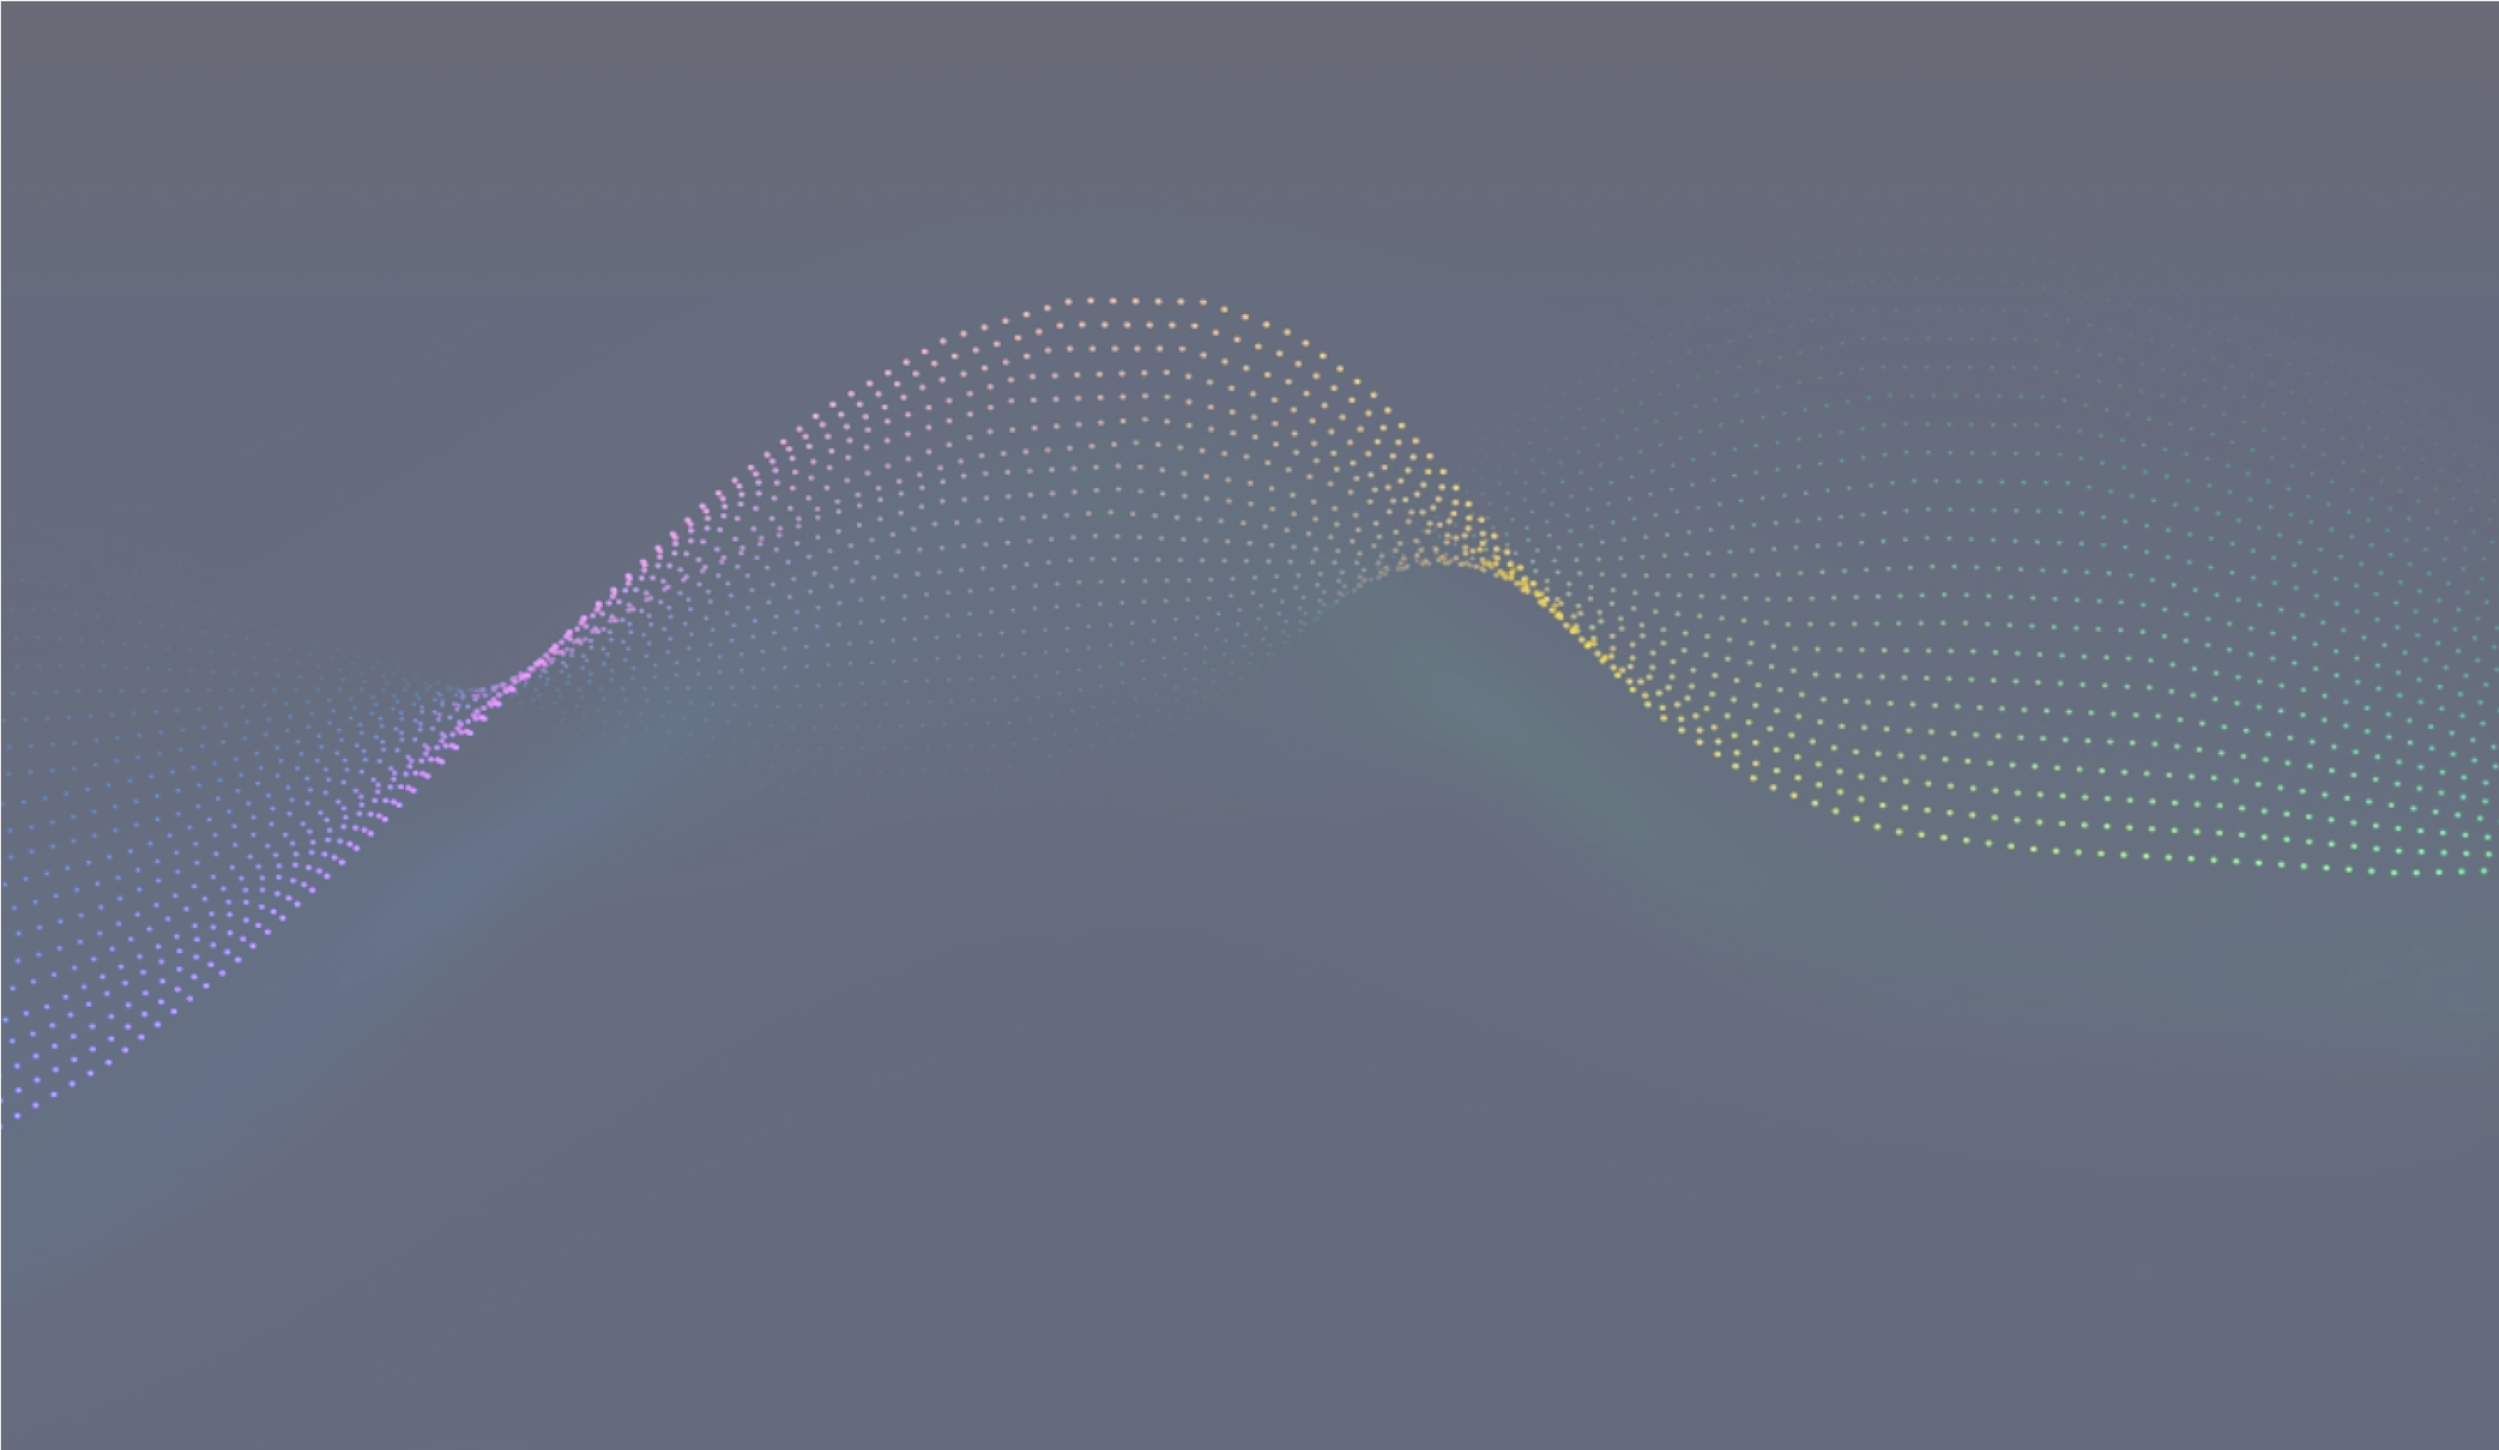
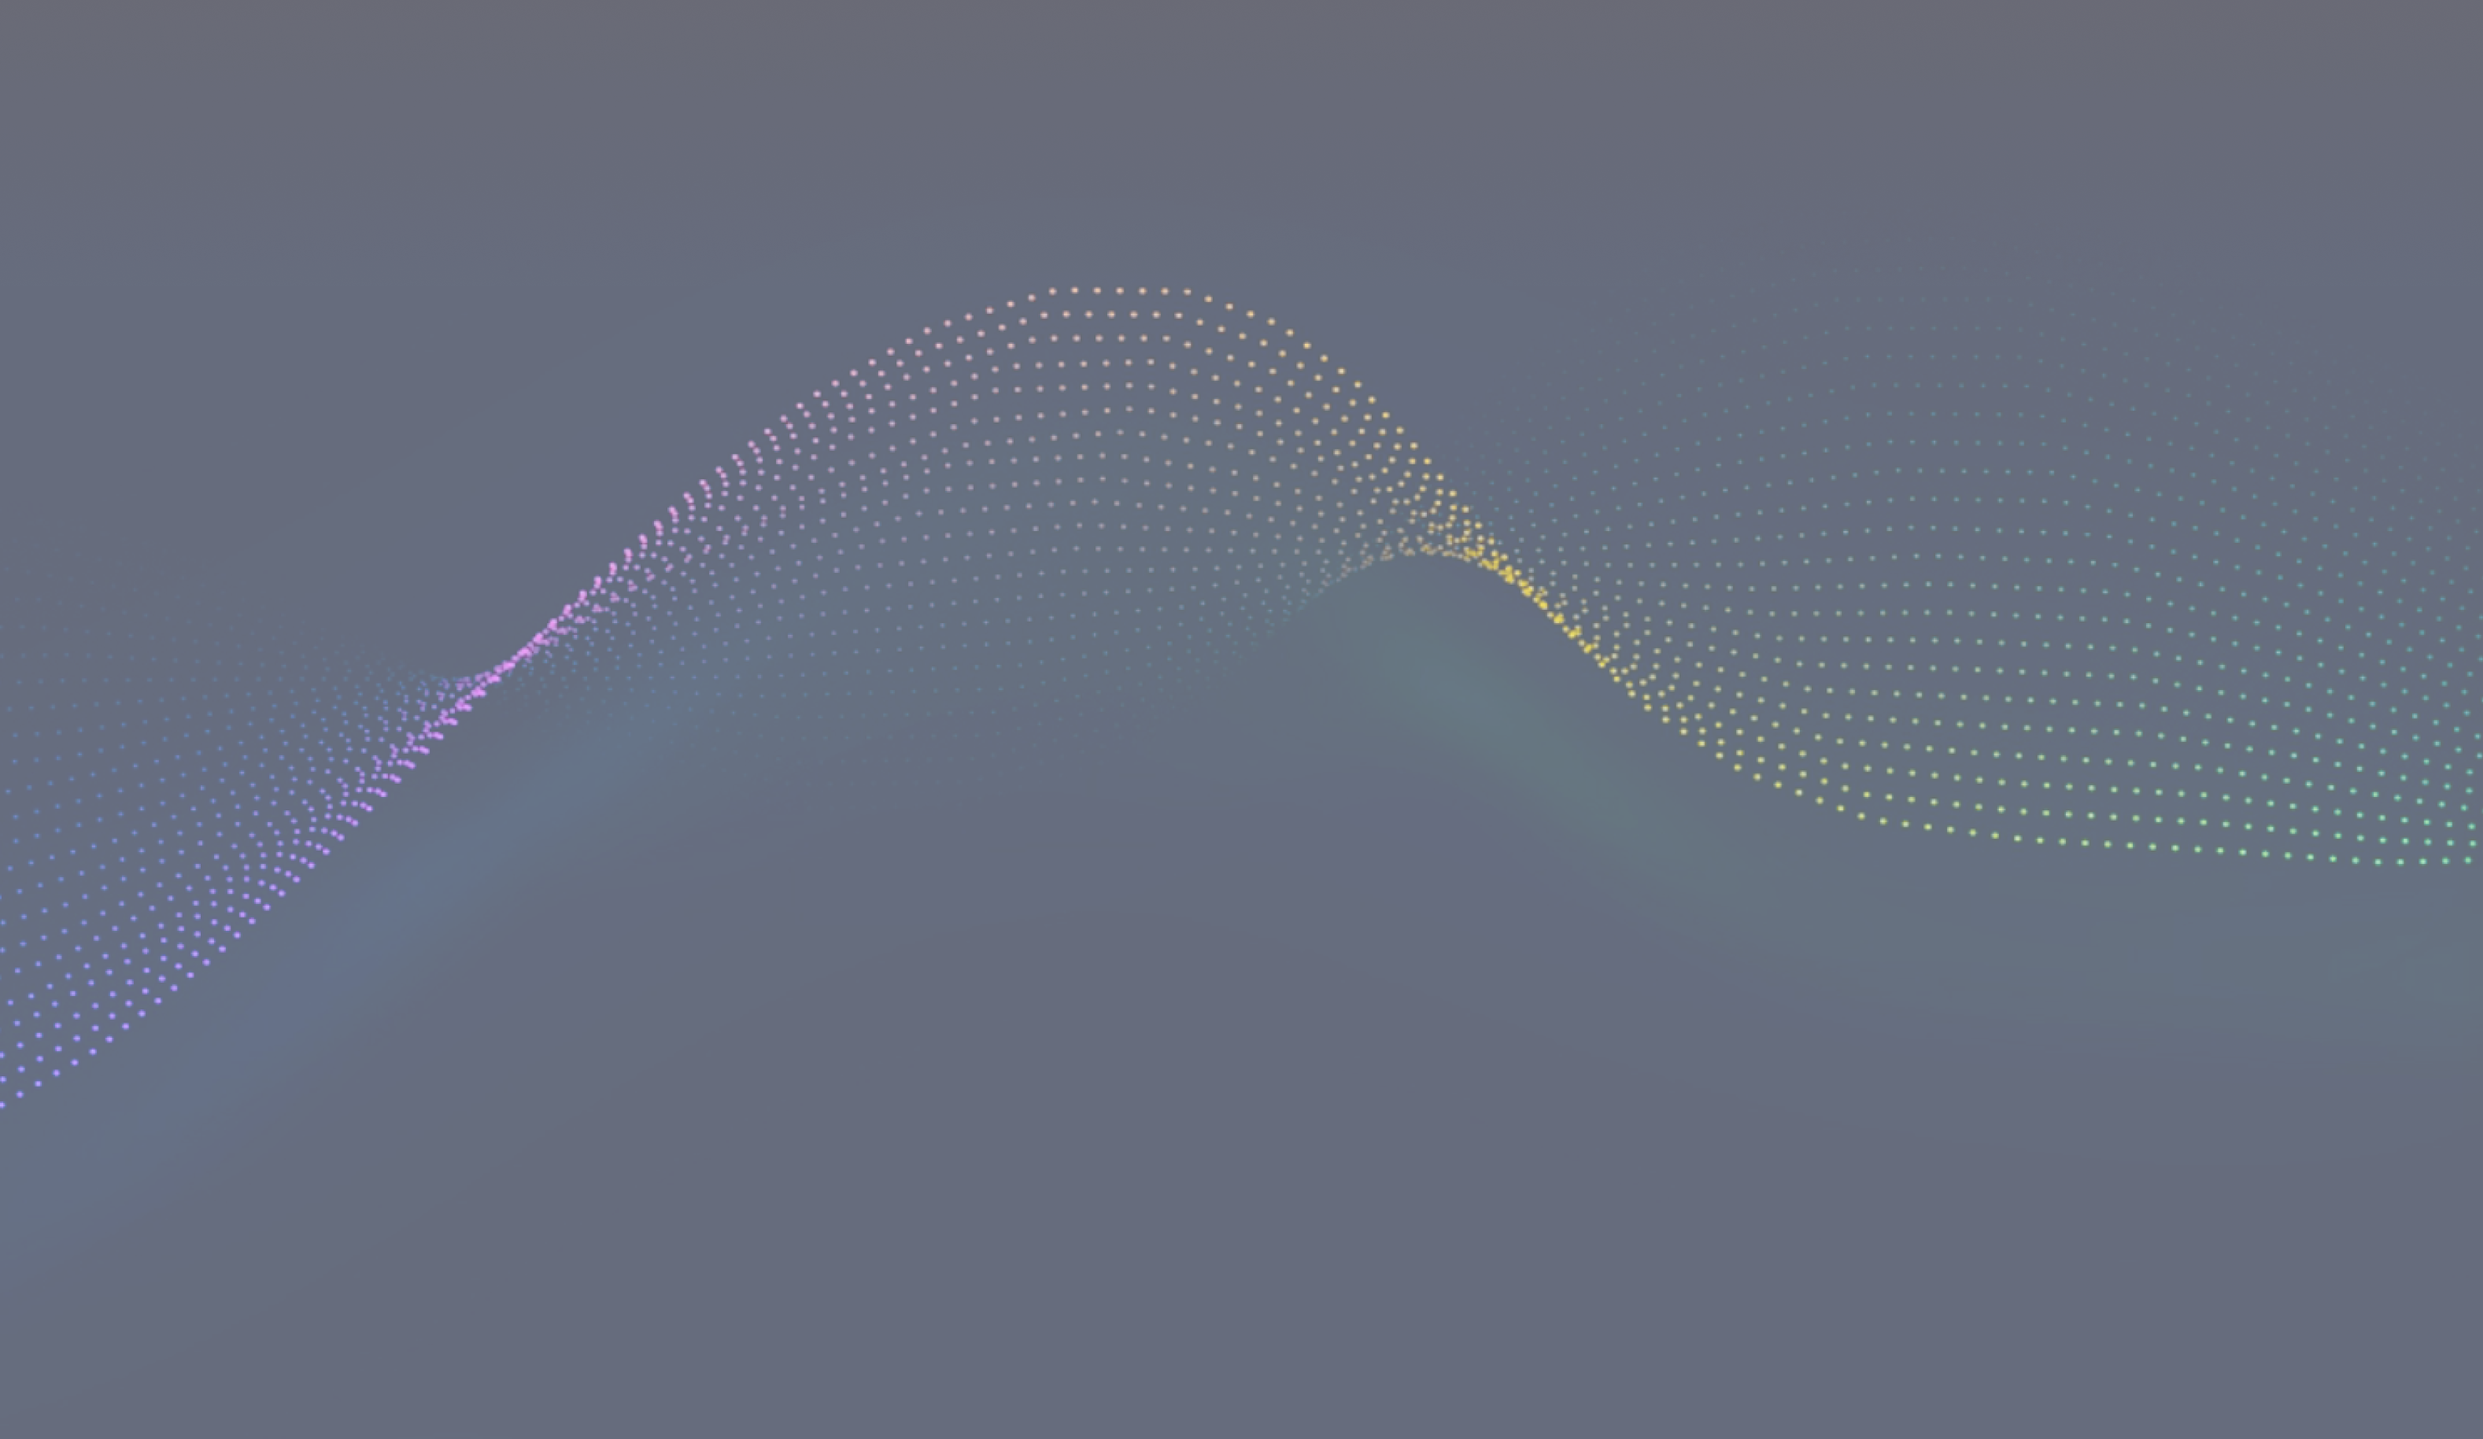
Removes aspectRatio properties

Changed region(s): [[0.0, 0.187, 1.0, 0.7791]]

diff --git a/components/CommunitySection.tsx b/components/CommunitySection.tsx
@@ -49,17 +49,22 @@ const CommunitySection = () => {
           <Box
             component="div"
             sx={{
-              aspectRatio: "1182/882",
+              // aspectRatio: "1182/882",
               position: "relative",
               zIndex: 0,
               width: "100%",
             }}
           >
-            <Image
+            <img
+              src={LeadingTheChargeImage.src}
+              alt="Leading the charge background imagery"
+              style={{ width: "100%" }}
+            />
+            {/* <Image
               src={LeadingTheChargeImage}
               alt="Leading the charge background imagery"
               fill
-            />
+            /> */}
           </Box>
           {protocols.map((protocol, i) => {
             return <WrapperGraphic key={protocol.title} {...protocol} />;

diff --git a/components/SolutionSection.tsx b/components/SolutionSection.tsx
@@ -140,16 +140,21 @@ const SolutionSection = () => {
                   top: "-4.2%",
                   right: "-25.4%",
                   width: "58%",
-                  aspectRatio: "1230/1202",
+                  // aspectRatio: "1230/1202",
                   opacity: [0, 1],
                 }}
               >
-                <Image
+                <img
+                  src={SolutionsBlobCyan.src}
+                  alt=""
+                  style={{ width: "100%" }}
+                />
+                {/* <Image
                   src={SolutionsBlobCyan}
                   alt=""
                   fill
                   sizes="max-width(1200px) 464px, max-width(768px) 380px"
-                />
+                /> */}
               </Box>
               <Box
                 component="div"

diff --git a/components/Blobs.tsx b/components/Blobs.tsx
@@ -53,11 +53,12 @@ export const Blob = ({
         left: left,
         top: top,
         position: "absolute",
-        filter: `blur(${blur})`,
-        aspectRatio: aspect,
+        filter: blur ? `blur(${blur})` : null,
+        // aspectRatio: aspect,
       }}
     >
-      <Image
+      <img src={src.src} alt="" style={{ width: "100%", height: "auto" }} />
+      {/* <Image
         src={src}
         alt=""
         fill
@@ -68,7 +69,7 @@ export const Blob = ({
             : null
         }
         // sizes={`max-width(1200px) 464px, max-width(768px) 380px`}
-      />
+      /> */}
     </Box>
   );
 };

diff --git a/components/BenefitCard.tsx b/components/BenefitCard.tsx
@@ -82,7 +82,10 @@ const BenefitCard = ({ slug, color, title, description }: BenefitCardProps) => {
           background: colors[color],
           boxShadow: shadows[24],
           borderRadius: 4,
-          inset: 6,
+          top: 6,
+          bottom: 6,
+          left: 6,
+          right: 6,
           zIndex: 0,
         }}
       />

diff --git a/components/WrapperGraphic.tsx b/components/WrapperGraphic.tsx
@@ -69,7 +69,7 @@ const WrapperGraphic = ({
         transition: `transform 0.25s ${easings.cubic}`,
         overflow: "hidden",
         opacity: opacity ? opacity : 1,
-        aspectRatio: "1/1",
+        // aspectRatio: "1/1",
         zIndex: 1,
         "&:hover": {
           transform: color ? `translate(-50%,-50%) scale(1.15)` : null,
